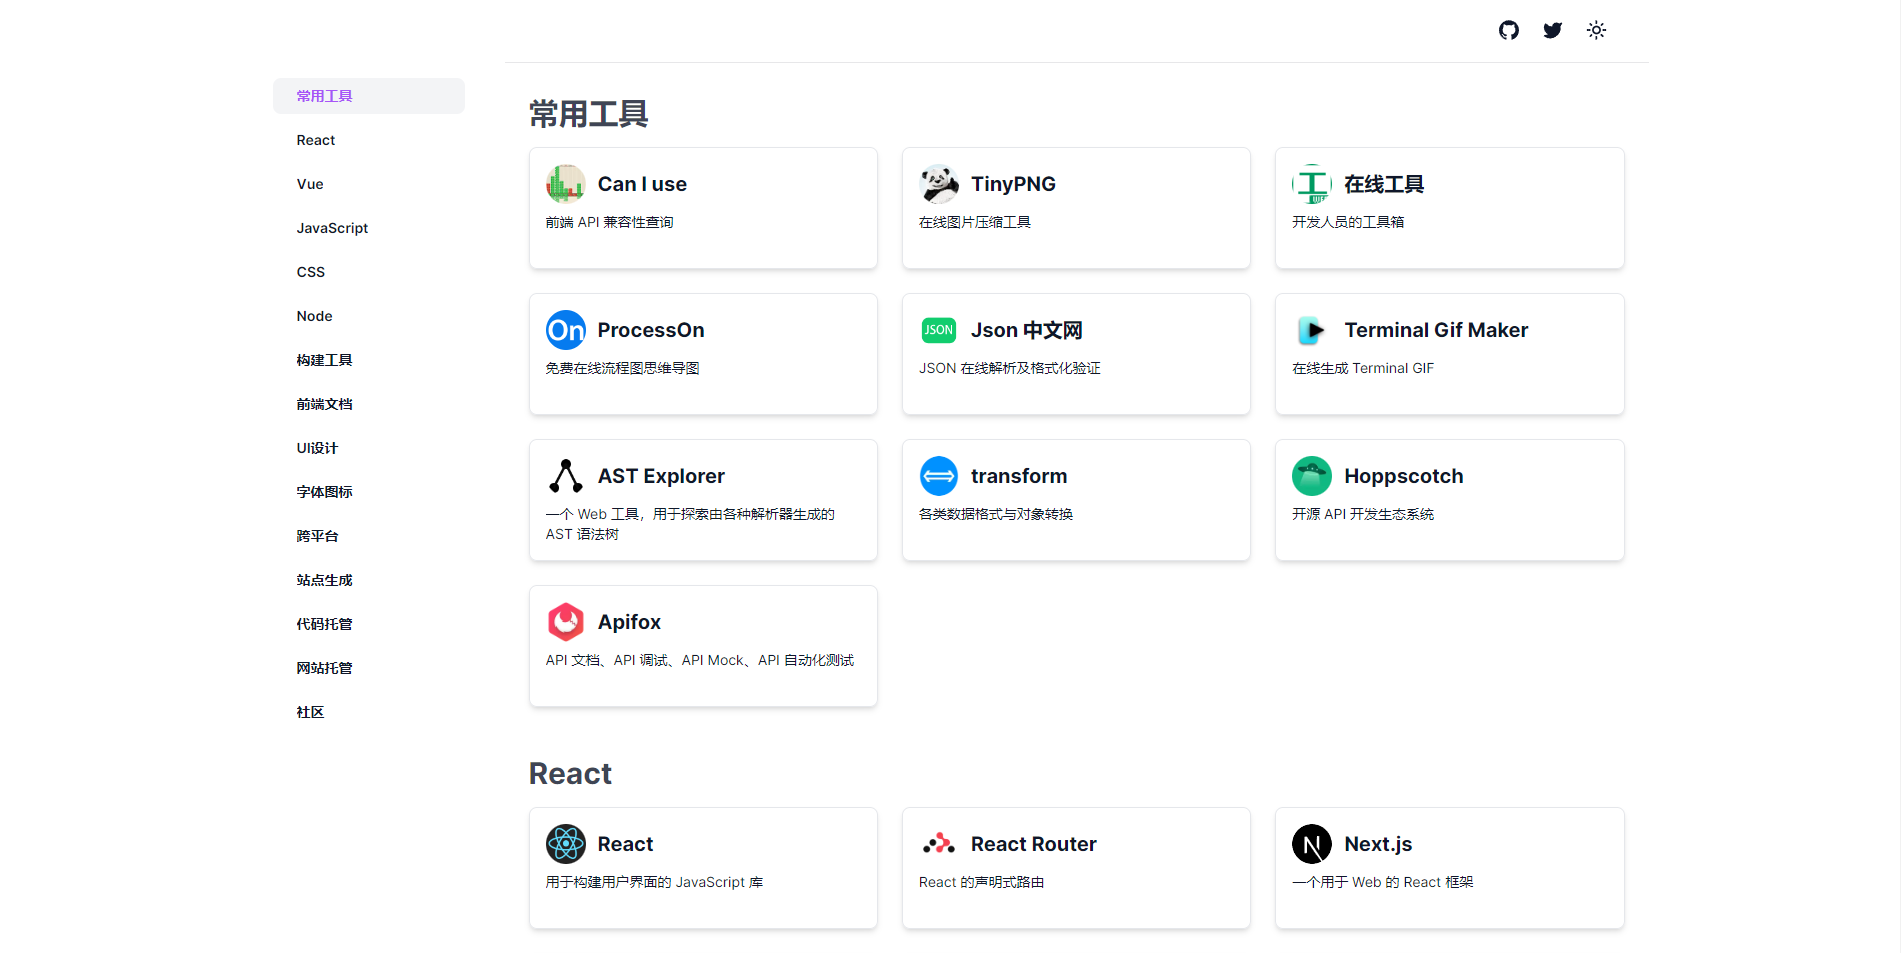
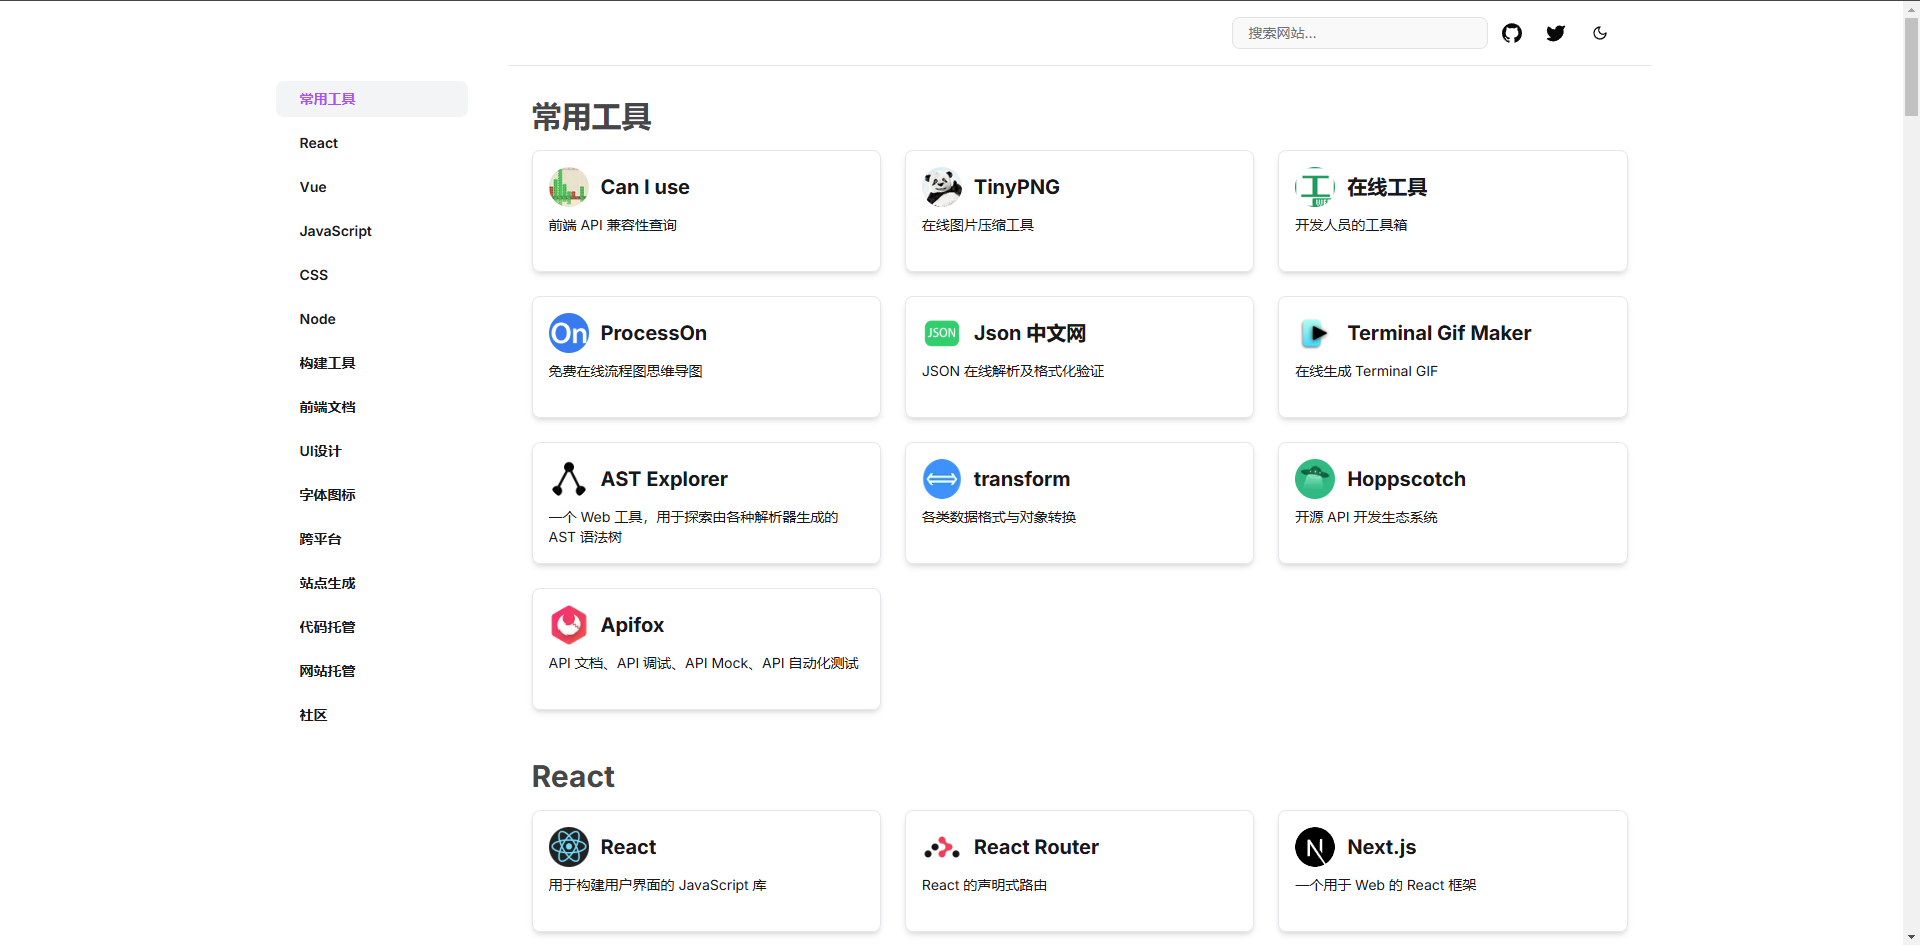
feat: update readme

diff --git a/README.md b/README.md
@@ -19,9 +19,20 @@
 
 ## 效果图
 <p align="center">
-  <img src="/public/next-web-nav-pc.png"  alt="next-web-nav-pc">
-  <img src="/public/next-web-nav-phone.png"  alt="next-web-nav-phone">
+  <img src="/public/next-web-nav-pc.png" >
+  <img src="/public/next-web-nav-pc-dark.png" >
+  <img src="/public/next-web-nav-pc-search.png" >
+  <img src="/public/next-web-nav-pc-dark-search.png" >
 </P>
+
+<p align="center">
+  <img src="/public/next-web-nav-phone.png" style="width: 45%; margin: 5px;">
+  <img src="/public/next-web-nav-phone-search.png" style="width: 45%; margin: 5px;">
+</p>
+<p align="center">
+  <img src="/public/next-web-nav-phone-dark.png" style="width: 45%; margin: 5px;">
+  <img src="/public/next-web-nav-phone-dark-search.png" style="width: 45%; margin: 5px;">
+</p>
 
 <p align="center"> 基于 <b>Next.js</b> 的前端导航网站 </p>
 
@@ -34,6 +45,7 @@
 
 - 自带前端导航模块
 - 移动端适配
+- 支持站内搜索
 - 可通过 JSON 自定义导航数据
 - 支持日夜颜色模式切换
 - 支持 Vercel 直接部署上线
